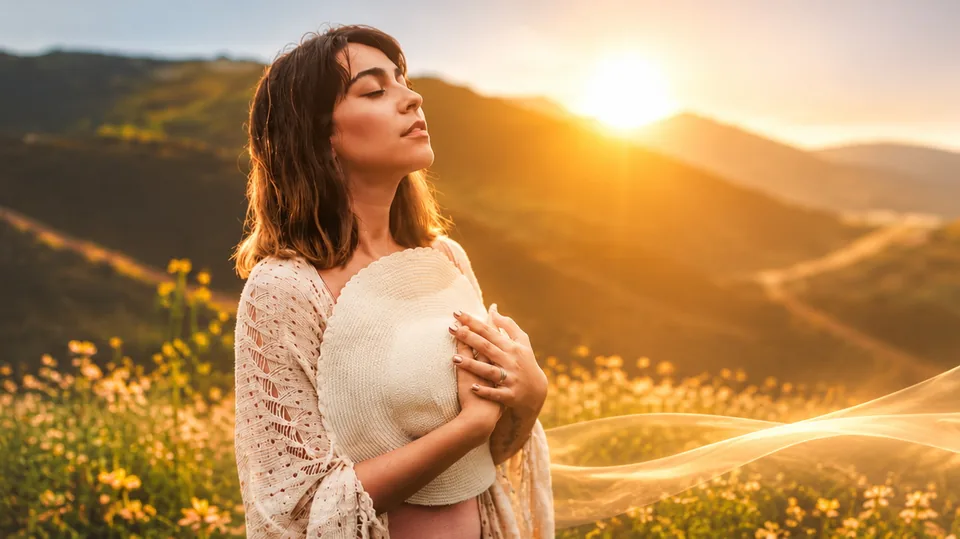
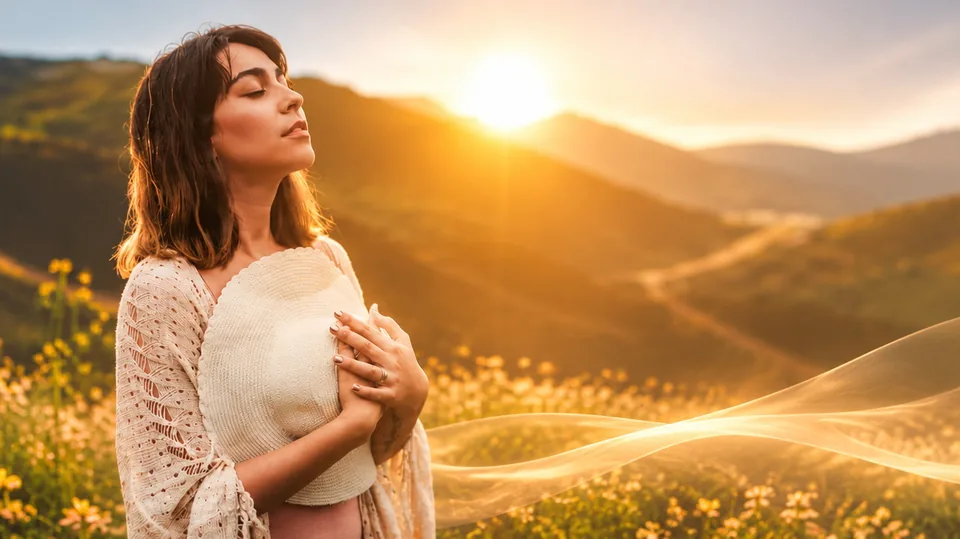
quienes somos: el sujeto del hero se va a la izquierda (ventana del recorte +160 px) y el texto se pega al borde derecho a 1080p

diff --git a/assets/site.css b/assets/site.css
@@ -296,6 +296,11 @@ body.con-cristal>.hero-split .hero-texto{padding-top:calc(clamp(56px,7vw,96px) +
 .hero-retrato--der::before{background:linear-gradient(270deg,rgba(251,239,221,.92) 0%,rgba(251,239,221,.86) 30%,
   rgba(251,239,221,.62) 44%,rgba(251,239,221,.22) 54%,rgba(251,239,221,.04) 62%,rgba(251,239,221,0) 70%)}
 .hero-retrato--der .hero-col{margin-left:auto;max-width:min(560px,max(31vw,320px))}
+/* A 1080p el contenedor de 1200 px dejaba 390 px muertos a la derecha del texto y sólo 145 px entre la
+   figura y el bloque: el texto se pega al borde de la ventana, la figura se queda en su sitio y aparece
+   el aire entre las dos. En pantallas anchas el hero no cabe dentro de la caja de 1200. */
+body.con-cristal>.hero-retrato--der .wrap{max-width:none;
+  padding-left:clamp(20px,4vw,64px);padding-right:clamp(20px,4vw,72px)}
 /* el bloque sube: la franja inferior derecha de la foto la cruza la cinta dorada y el texto se lee mejor arriba */
 .hero-retrato--der .wrap{padding-bottom:calc(clamp(72px,9vw,120px) + 110px)}
 
